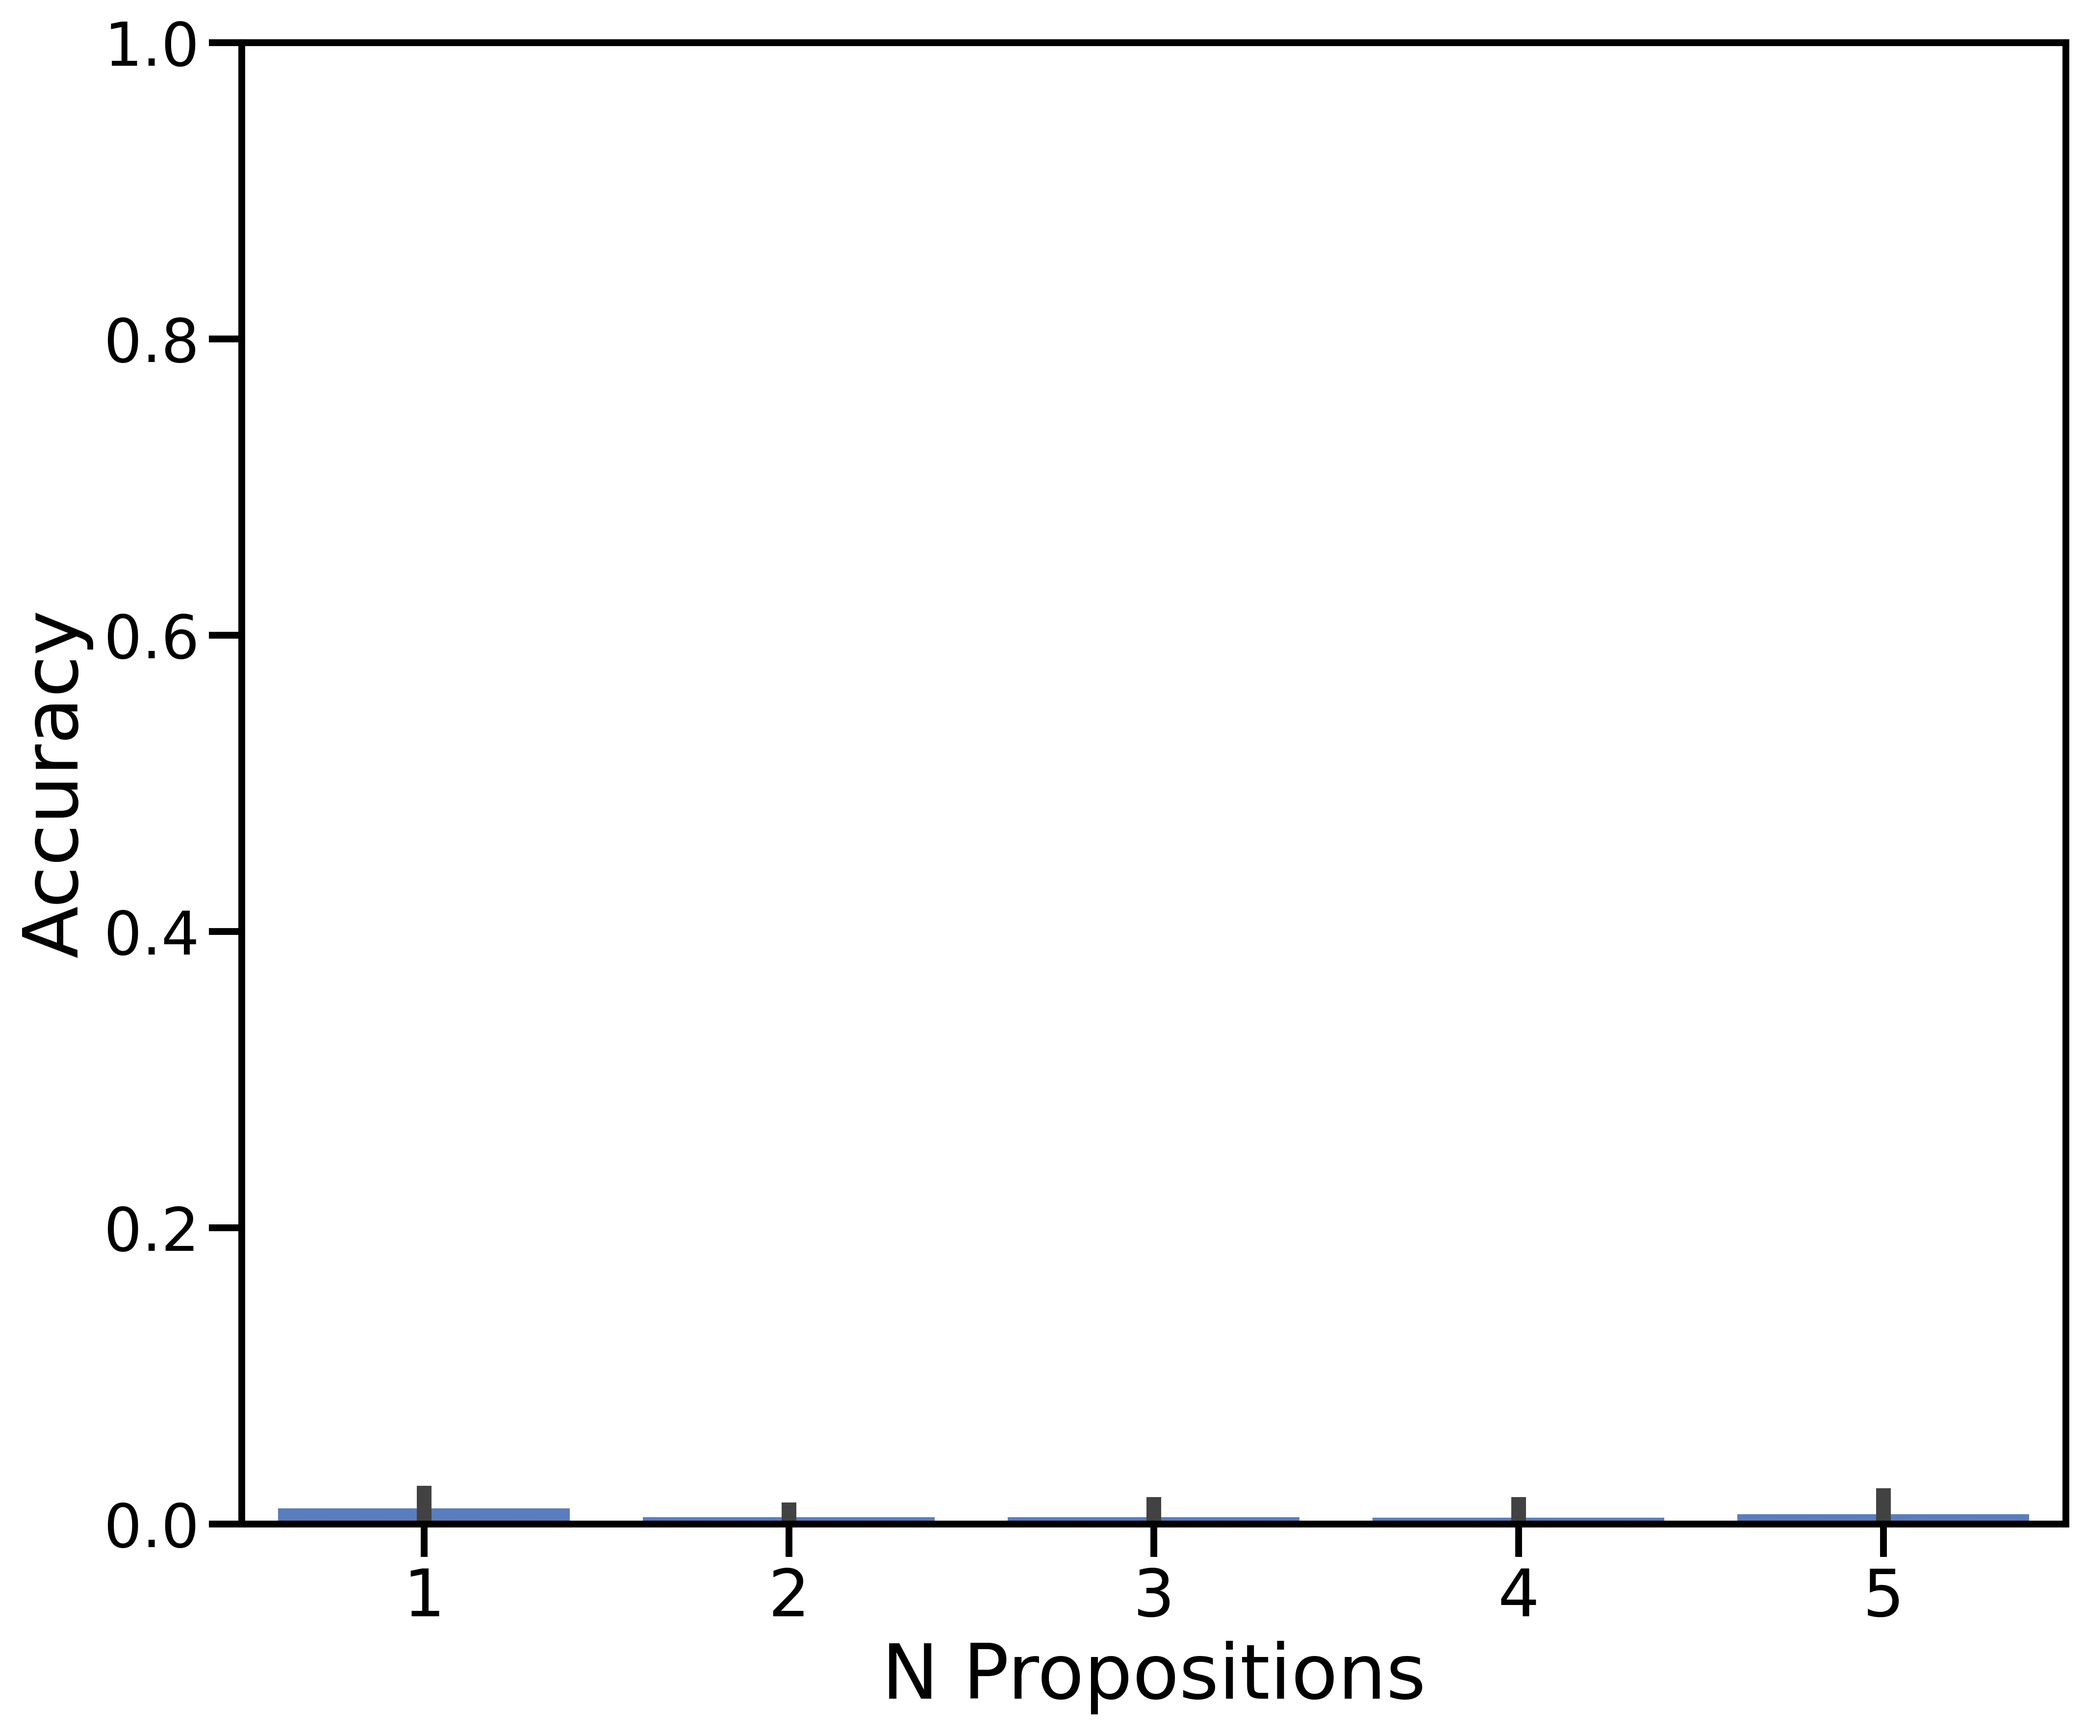
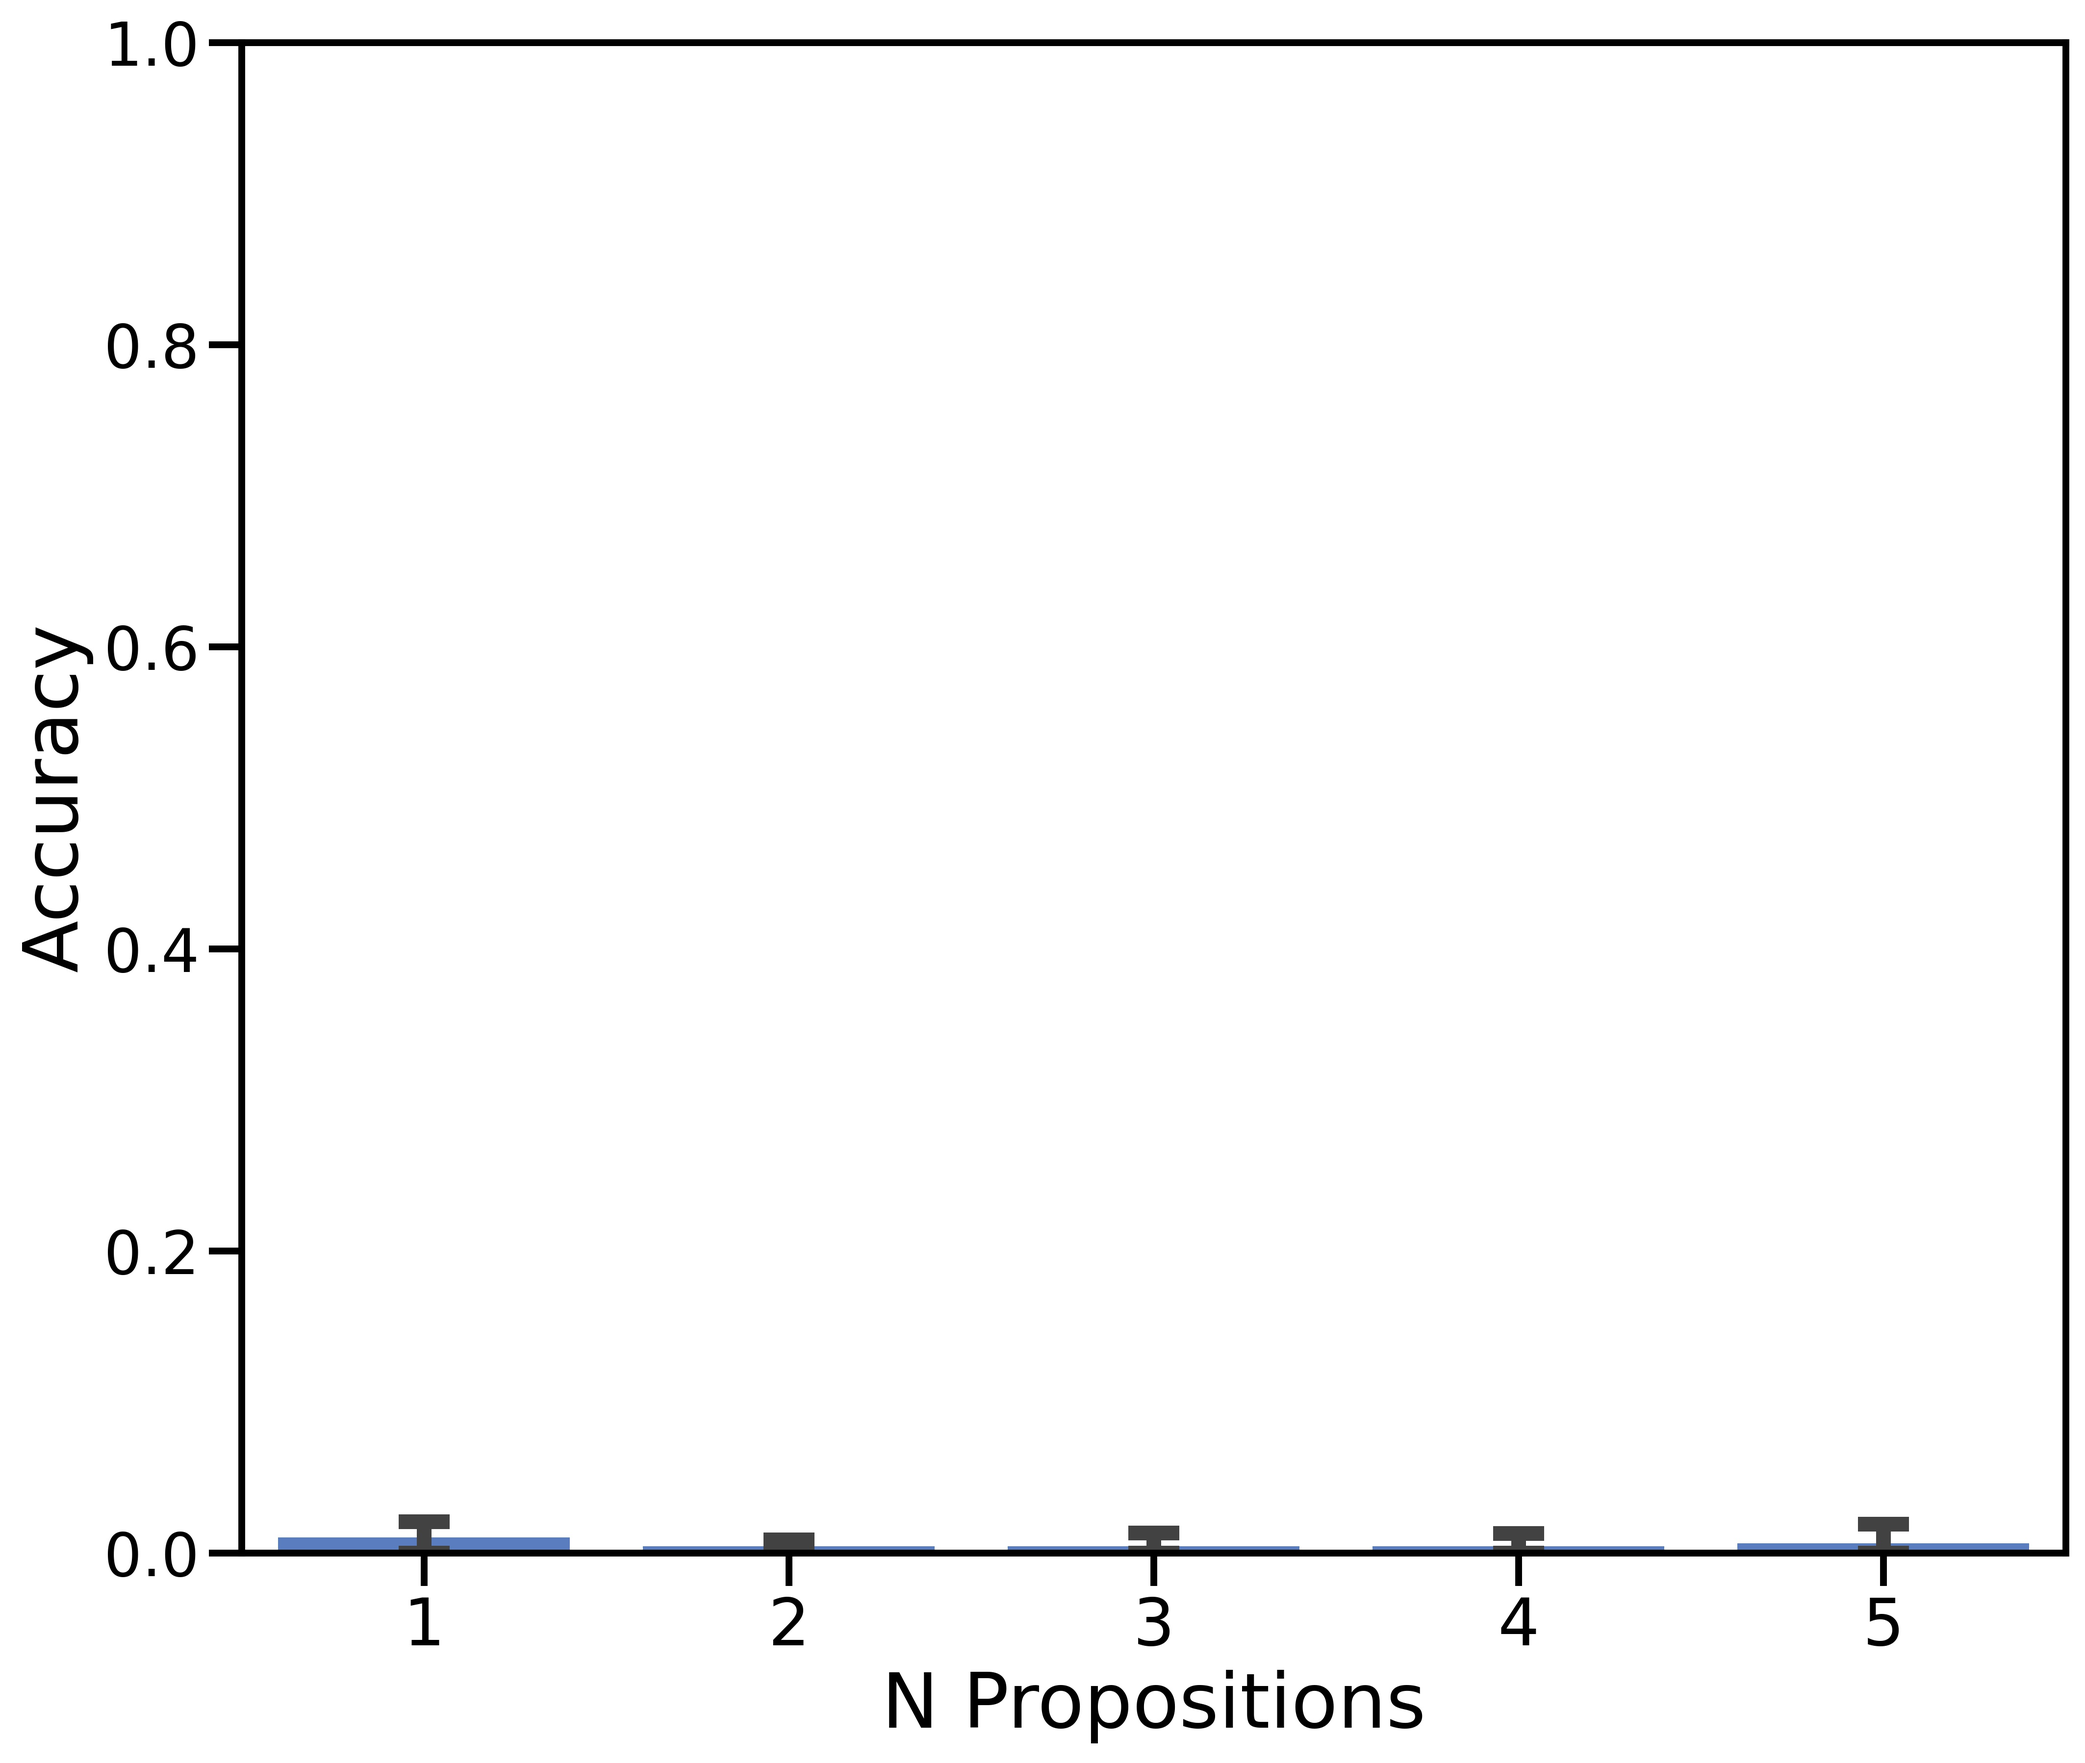
added results

Changed region(s): [[0.0621, 0.8402, 0.9934, 0.9335], [0.0, 0.3423, 0.031, 0.3734]]

diff --git a/results_analysis.py b/results_analysis.py
@@ -21,8 +21,40 @@ TEST_NAMES = {'utt_holdout': 'Utterance','formula_holdout':'Formula','type_holdo
 OSM_MODEL_NAMES = ['Lang2LTL', 'CopyNet']
 
 
-def parse_per_city_accs():
-    a=1
+def parse_per_city_accs(test_type):
+    filepath = os.path.join('.','results','lang2ltl','osm')
+    cities = get_osm_cities()
+    accs = []
+    df = {}
+    entry_id = 0
+    
+    
+    for city in cities:
+        city_accs = []
+        filepath1 = os.path.join(filepath, city, test_type+'_batch12')
+        if os.path.exists(filepath1):
+            files = [file for file in os.listdir(filepath1) if fnmatch(file, 'acc*.json')]
+            for file in files:
+                with open(os.path.join(filepath1, file), 'r') as f:
+                    data = json.load(f)
+                acc = data['Accumulated Accuracy']
+                city_accs.append(acc)
+        if len(city_accs):
+            accs.append(city_accs)
+        for (model_id, acc) in enumerate(city_accs):
+            entry = {}
+            entry['Model ID'] = model_id
+            entry['Accuracy'] = acc
+            entry['City'] = city
+            df[entry_id] = entry
+            entry_id = entry_id + 1
+        
+    return pd.DataFrame.from_dict(df, orient = 'index')
+    
+    
+    
+    
+        
 
 def create_symbolic_accuracies_table(test_types = SYMBOLIC_TEST_TYPES, model_types = SYMBOLIC_MODEL_TYPES):
     entries = []
@@ -234,7 +266,7 @@ def parse_acc(csv_data):
 def get_osm_cities():
     filepath = os.path.join('.','results','lang2ltl','osm')
     cities = os.listdir(filepath)
-    cities = [city for city in cities if city != 'boston']
+    cities = [city for city in cities if 'boston' not in city]
     return cities
 
 

diff --git a/plot_results.py b/plot_results.py
@@ -49,6 +49,7 @@ def plot_type_accuracies():
                 sns.set_color_codes('muted')
                 plt.figure(figsize = [12,10])
                 sns.barplot(data = accs, x = 'Accuracy', y = 'Formula Type', color = 'b', ci = None)
+                plt.xlim([0,1])
                 plt.savefig(f'figures/type_accs_{test_type}_{model_type}.jpg', dpi = 400, bbox_inches = 'tight')
     
 def plot_n_prop_accuracies():
@@ -60,9 +61,19 @@ def plot_n_prop_accuracies():
             with sns.plotting_context(context = 'poster', rc = rc):
                 sns.set_color_codes('muted')
                 plt.figure(figsize = [12,10])
-                sns.barplot(data = accs, x = 'N Propositions', y = 'Accuracy', color = 'b')
+                sns.barplot(data = accs, x = 'N Propositions', y = 'Accuracy', color = 'b', capsize = 0.1)
                 plt.ylim([0,1])
                 plt.savefig(f'figures/n_prop_accs_{test_type}_{model_type}.jpg', dpi = 400, bbox_inches = 'tight')
+
+def plot_per_city_accuracy():
+    for test_type in SYMBOLIC_TEST_TYPES:
+        data = parse_per_city_accs(test_type)
+        with sns.plotting_context(context = 'poster',rc = rc):
+            sns.set_color_codes('muted')
+            plt.figure(figsize=[10,12])
+            sns.barplot(data = data, x = 'Accuracy',y = 'City', color = 'b', capsize = 0.1)
+            plt.xlim([0,1])
+            plt.savefig(f'figures/city_accuracies_{test_type}.jpg', dpi = 400, bbox_inches = 'tight')
     
     
 if __name__ == '__main__':
@@ -71,3 +82,4 @@ if __name__ == '__main__':
     #plot_osm_accuracies()
     plot_type_accuracies()
     plot_n_prop_accuracies()
+    plot_per_city_accuracy()
